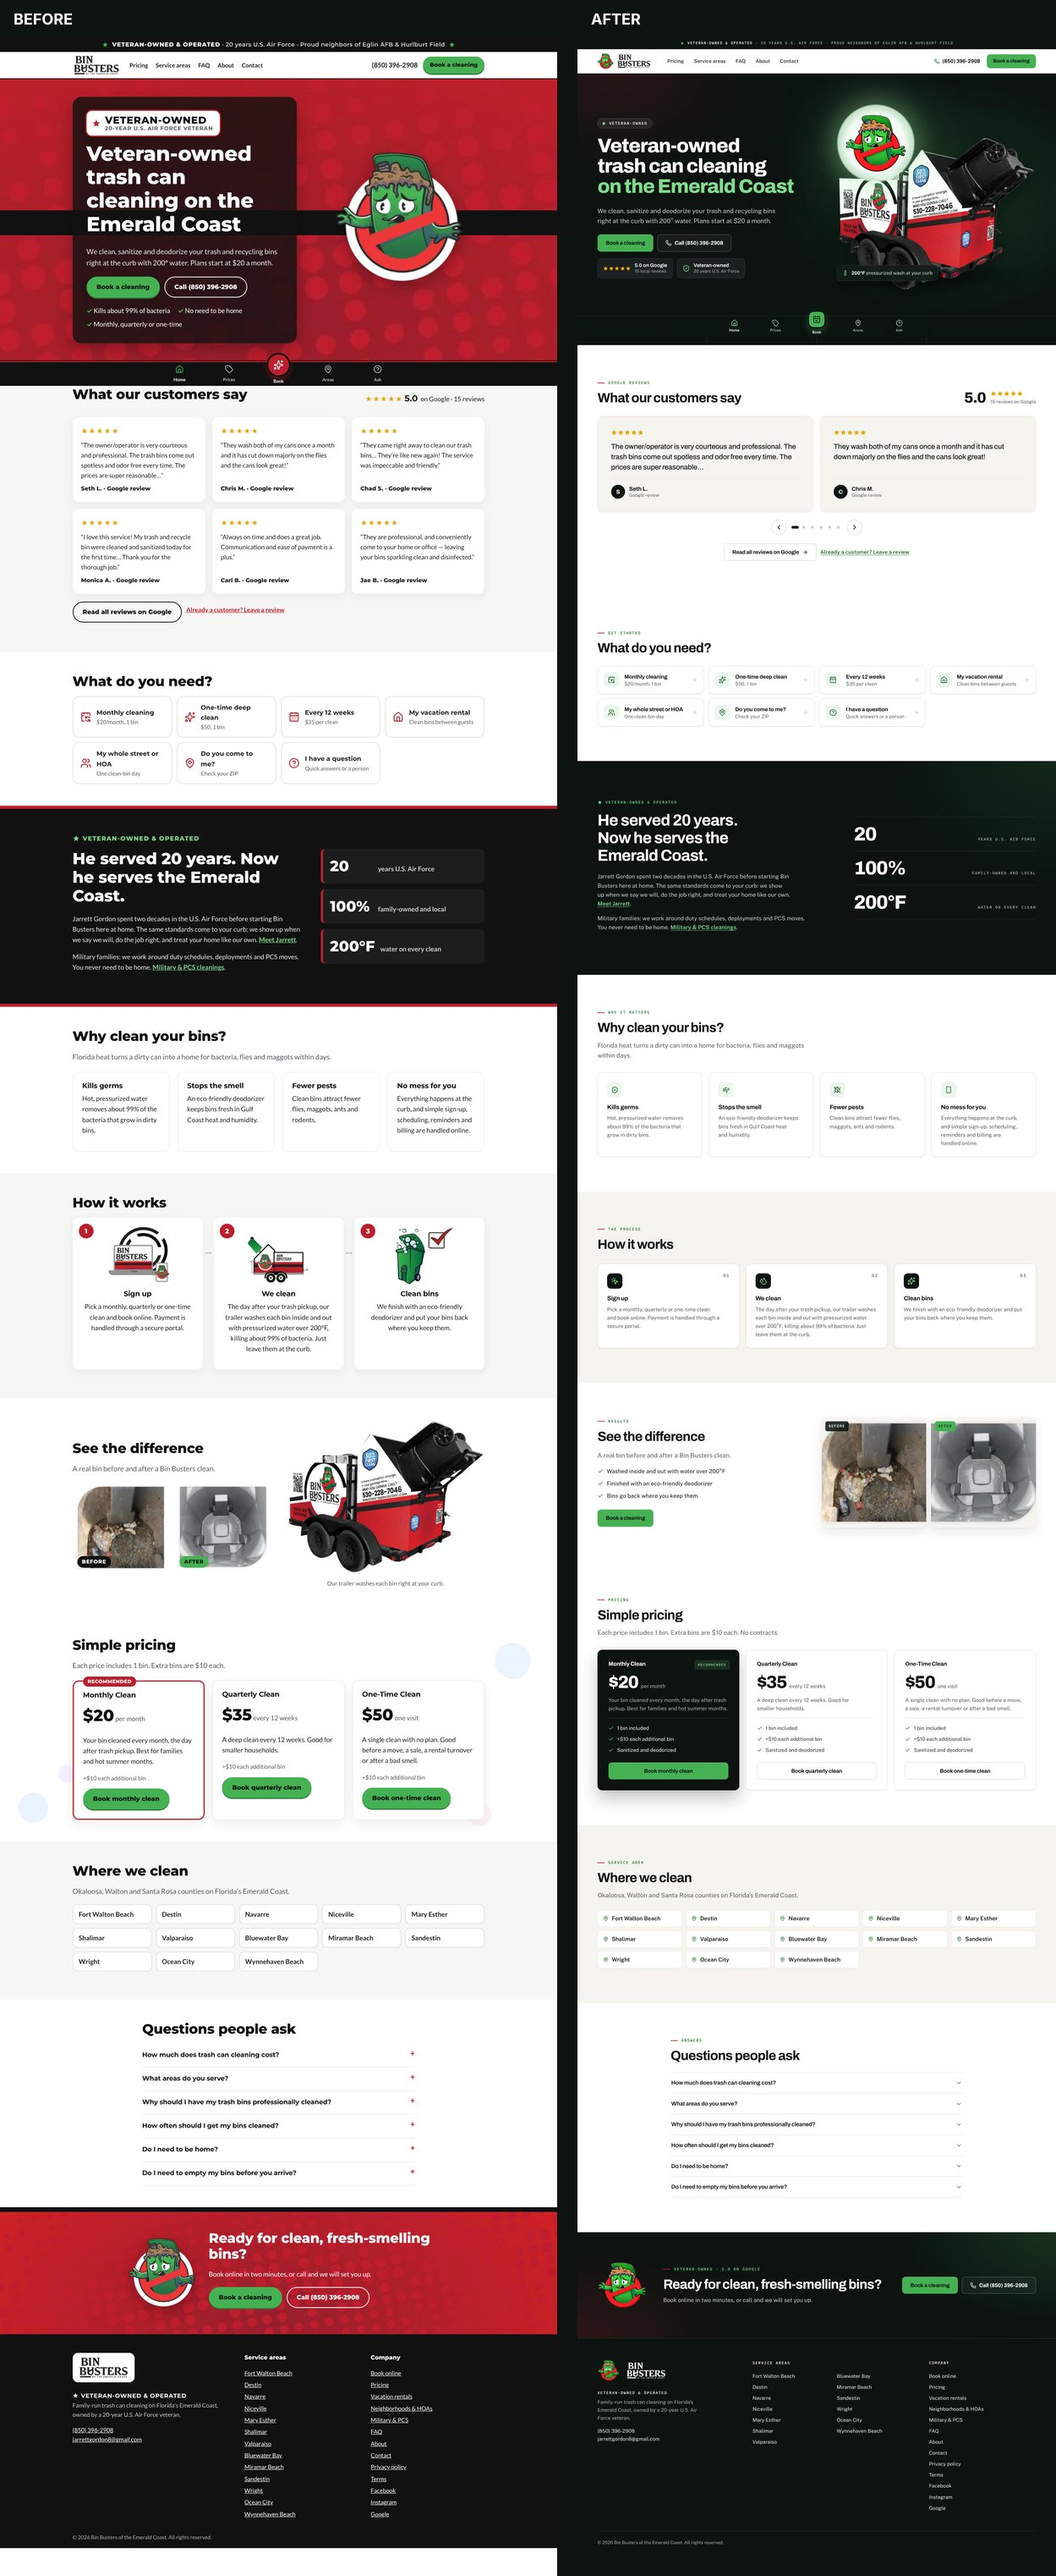
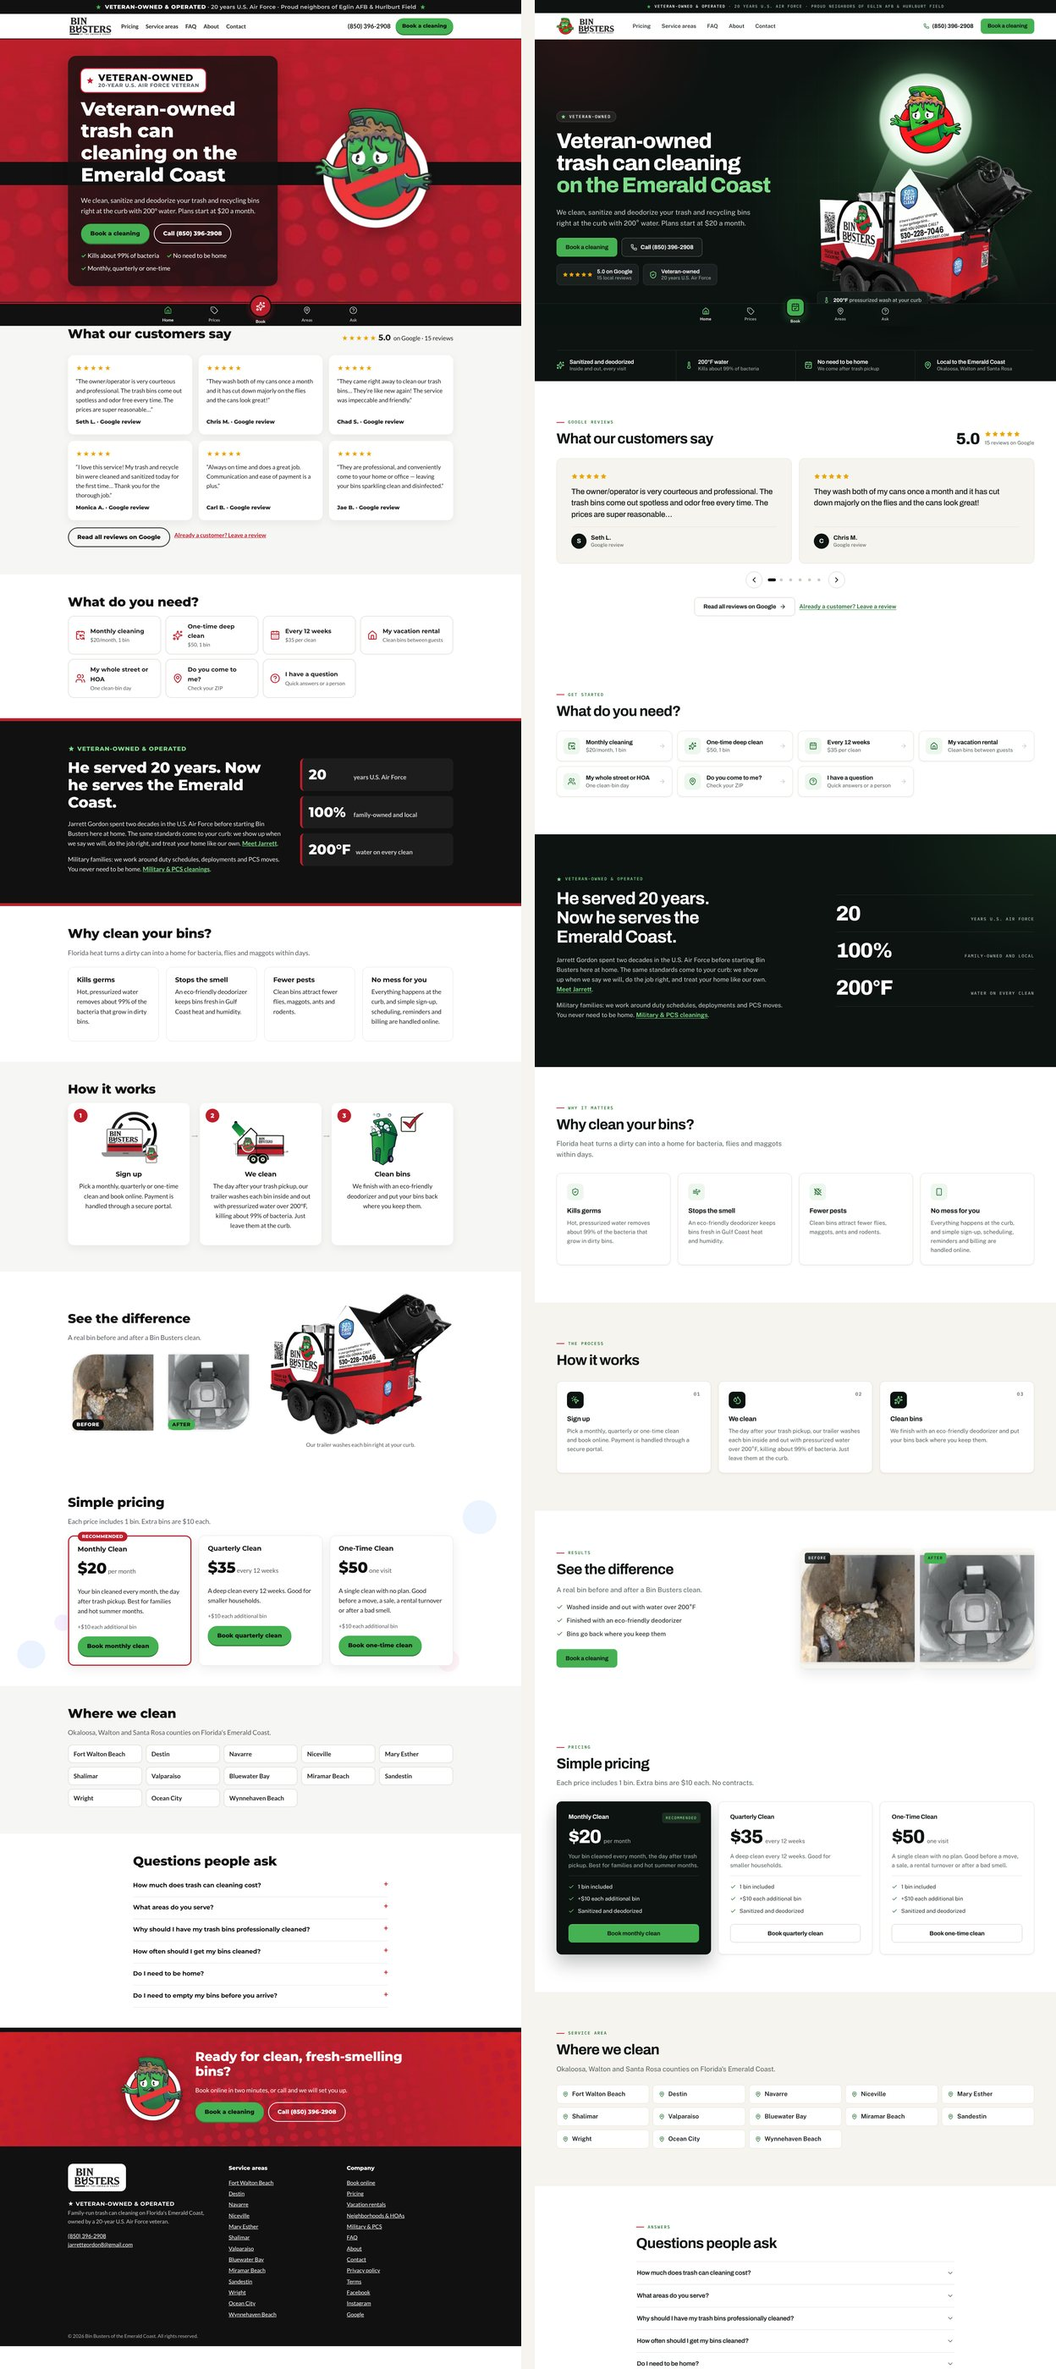
Centre the hero spotlight and use it as the phone hero backdrop
The mascot signal is centred above the trailer on desktop with a soft
beam. On phones and tablets it sits at the top of the hero and lights
the area behind the headline.

Claude-Session: https://claude.ai/code/session_01M9RXcqvEXW1FhGnX4Wdy1U

diff --git a/app/globals.css b/app/globals.css
@@ -118,7 +118,7 @@ strong { color: var(--ink); font-weight: 700; }
 
 /* ---- Hero ---- */
 .hero { position: relative; overflow: hidden; color: var(--on-night); background:
-    radial-gradient(52% 62% at 78% 46%, rgba(69, 177, 83, 0.2), transparent 70%),
+    radial-gradient(52% 62% at 76% 42%, rgba(69, 177, 83, 0.2), transparent 70%),
     radial-gradient(40% 50% at 8% 0%, rgba(189, 30, 44, 0.16), transparent 70%),
     var(--night); }
 .hero::before { content: ""; position: absolute; inset: 0; background-image: linear-gradient(rgba(255, 255, 255, 0.035) 1px, transparent 1px), linear-gradient(90deg, rgba(255, 255, 255, 0.035) 1px, transparent 1px); background-size: 56px 56px; -webkit-mask-image: radial-gradient(70% 80% at 70% 40%, #000, transparent 75%); mask-image: radial-gradient(70% 80% at 70% 40%, #000, transparent 75%); pointer-events: none; }
@@ -142,11 +142,13 @@ strong { color: var(--ink); font-weight: 700; }
 .hero .vet-badge { background: rgba(255, 255, 255, 0.07); border-color: rgba(255, 255, 255, 0.2); color: #fff; }
 .hero .vet-badge svg { color: var(--green-on-night); }
 
-.hero-visual { position: relative; display: grid; place-items: center; padding-top: clamp(40px, 7vw, 96px); }
-/* The mascot as a lit signal above the trailer (the logo-as-spotlight idea from the DiFiore Builders site) */
-.hero-signal { position: absolute; z-index: 2; left: 0; top: 0; width: clamp(130px, 17vw, 236px); aspect-ratio: 1; border-radius: 50%; display: grid; place-items: center; background: radial-gradient(circle, #ffffff 0%, #f3fbf4 52%, rgba(214, 245, 219, 0.9) 68%, rgba(190, 240, 198, 0) 72%); box-shadow: 0 0 70px 14px rgba(160, 235, 172, 0.32), 0 0 160px 50px rgba(127, 220, 139, 0.16); animation: signal 5s ease-in-out infinite; }
+.hero-visual { position: relative; display: grid; place-items: center; padding-top: clamp(150px, 15.5vw, 224px); }
+/* The mascot as a lit signal centred above the trailer (the logo-as-spotlight idea from the DiFiore Builders site) */
+.hero-signal { position: absolute; z-index: 2; left: 50%; top: 0; margin-left: calc(clamp(170px, 18vw, 260px) / -2); width: clamp(170px, 18vw, 260px); aspect-ratio: 1; border-radius: 50%; display: grid; place-items: center; background: radial-gradient(circle, #ffffff 0%, #f3fbf4 52%, rgba(214, 245, 219, 0.9) 68%, rgba(190, 240, 198, 0) 72%); box-shadow: 0 0 70px 14px rgba(160, 235, 172, 0.32), 0 0 160px 50px rgba(127, 220, 139, 0.16); animation: signal 5s ease-in-out infinite; }
 .hero-signal img { width: 76%; height: auto; filter: none; max-width: none; }
 @keyframes signal { 0%, 100% { box-shadow: 0 0 70px 14px rgba(160, 235, 172, 0.32), 0 0 160px 50px rgba(127, 220, 139, 0.16); } 50% { box-shadow: 0 0 90px 22px rgba(160, 235, 172, 0.42), 0 0 190px 64px rgba(127, 220, 139, 0.2); } }
+/* Light falling from the signal onto the trailer */
+.hero-visual::after { content: ""; position: absolute; z-index: 0; left: 50%; top: clamp(85px, 9vw, 130px); bottom: 8%; width: min(92%, 560px); transform: translateX(-50%); background: linear-gradient(180deg, rgba(190, 240, 198, 0.3), rgba(190, 240, 198, 0.05) 70%, transparent); clip-path: polygon(38% 0, 62% 0, 100% 100%, 0 100%); filter: blur(14px); pointer-events: none; }
 .hero-visual::before { content: ""; position: absolute; left: 8%; right: 8%; bottom: 3%; height: 11%; background: radial-gradient(closest-side, rgba(0, 0, 0, 0.6), transparent); filter: blur(8px); }
 .hero-visual > img { position: relative; z-index: 1; width: 100%; max-width: 620px; height: auto; display: block; filter: drop-shadow(0 26px 34px rgba(0, 0, 0, 0.42)); }
 .hero-chip { position: absolute; z-index: 3; left: 0; bottom: 6%; margin: 0; display: flex; align-items: center; gap: 10px; padding: 11px 16px; border-radius: 12px; background: rgba(19, 28, 25, 0.86); -webkit-backdrop-filter: blur(10px); backdrop-filter: blur(10px); border: 1px solid var(--night-line); color: #d5ddd9; font-size: 0.9rem; box-shadow: 0 14px 30px rgba(0, 0, 0, 0.36); }
@@ -430,7 +432,16 @@ a.need:hover, button.need:hover { border-color: var(--ink); transform: translate
   .footer-grid { grid-template-columns: 1fr 1fr; gap: 36px; }
   .footer-grid > div:first-child { grid-column: 1 / -1; }
   .footer-grid > div:nth-child(2) ul { columns: 1; }
-  .hero-visual { max-width: 520px; }
+  /* Phones and tablets: the signal leaves the trailer and lights the top of the screen behind the headline */
+  .hero { background: radial-gradient(120% 46% at 50% 0%, rgba(69, 177, 83, 0.3), transparent 72%), radial-gradient(60% 30% at 0% 0%, rgba(189, 30, 44, 0.14), transparent 70%), var(--night); }
+  .hero::before { -webkit-mask-image: radial-gradient(90% 60% at 50% 12%, #000, transparent 75%); mask-image: radial-gradient(90% 60% at 50% 12%, #000, transparent 75%); }
+  .hero-grid { position: relative; padding-top: 236px; }
+  .hero-grid::before { content: ""; position: absolute; z-index: 0; left: 50%; top: 110px; width: min(130%, 640px); height: 520px; transform: translateX(-50%); background: linear-gradient(180deg, rgba(190, 240, 198, 0.24), rgba(190, 240, 198, 0.04) 70%, transparent); clip-path: polygon(40% 0, 60% 0, 100% 100%, 0 100%); filter: blur(18px); pointer-events: none; }
+  .hero-copy { position: relative; z-index: 1; }
+  .hero-visual { position: static; max-width: 520px; padding-top: 0; }
+  .hero-visual::before, .hero-visual::after { display: none; }
+  .hero-signal { top: 26px; width: 184px; margin-left: -92px; }
+  .hero-chip { position: static; margin-top: 14px; justify-self: start; }
   .hero h1 { max-width: 18ch; }
   .cards, .steps { grid-template-columns: 1fr; }
   .vet-ribbon-more { display: none; }

diff --git a/CLAUDE.md b/CLAUDE.md
@@ -9,6 +9,7 @@
 - 2026-11-09: Brand recovered from the old site: colours, fonts, logo, mascot, step illustrations, before/after photos and trailer photo (self-hosted in `public/brand/`, captured via Chrome since the CDN is blocked from the sandbox). Matthew confirmed Jarrett owns them. Primary buttons are green 45B153 with black text (6.9:1).
 - 2026-11-12: Visual redesign after Matthew found the first version childish. Brand red and green are kept, but on a deep pine-black and warm paper with red as an accent only. Type is Archivo (headings), Public Sans (body) and IBM Plex Mono (labels). Cartoon step illustrations, halftone band and soap bubbles are gone; Lucide icons replace them. Tokens and contrast notes are at the top of `app/globals.css`.
 - 2026-11-12: Matthew likes the mascot logo but found its lines bulky and dull, so it was redrawn (same character, thinner outlines, brighter colour) with an AI image edit of the original; `public/brand/mascot.png` is the new one and `mascot-sticker.png` adds a white keyline for dark surfaces. It sits in the header beside the wordmark, as a lit "signal" in the hero, in the CTA band, footer and app icons. Matthew asked for the best parts of his other builds: the logo-as-spotlight comes from difiorebuilders.com; the two-tone headline, hero badge cards and tab bar on every screen size come from goodmanfl.com and tron-electric.
+- 2026-11-12: Matthew liked the spotlight and asked for it more centred and used as the background of the mobile app. On desktop the lit mascot disc is centred above the trailer with a soft beam falling onto it; at 960px and below it sits at the top centre of the hero and its beam is the backdrop behind the headline.
 - 2026-11-09: Booking still finishes in Jobber (Jarrett's existing client hub). The funnel captures the request first (`/api/pipeline`) and offers a prefilled text to Jarrett so no lead depends on a backend.
 - DNS cutover not done yet: needs Matthew's go-ahead. Old values for rollback: `A @ 162.159.140.166`, `CNAME www sites.ludicrous.cloud`. New: `A @ 216.150.1.1`, `CNAME www cc53ae1b859741ae.vercel-dns-016.com`.
 
